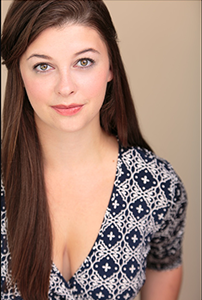
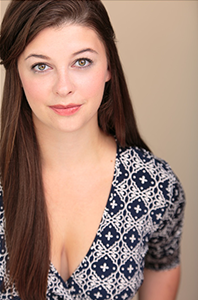
photo grid updates

diff --git a/index.html b/index.html
@@ -262,7 +262,7 @@
 
           <div class="col-lg-12">
             <ul id="portfolio-flters">
-              <li data-filter=".filter-app, .filter-card, .filter-logo, .filter-web" class="filter-active">All</li>
+              <li data-filter=".filter-production, .filter-headshot" class="filter-active">All</li>
               <li data-filter=".filter-headshot">Headshots</li>
               <li data-filter=".filter-production">Production Photos</li>
             </ul>
@@ -270,9 +270,9 @@
         </div>
 
         <div class="row" id="portfolio-wrapper">
-          <div class="col-lg-3 col-md-6 portfolio-item filter-headshot">
+          <div class="col-lg-3 col-md-6 portfolio-item filter-headshot photo-padding">
             <a href="">
-              <img src="img/Thumbnails/headshot4.png" alt="" style="margin-left: auto; margin-right: auto;">
+              <img src="img/Thumbnails/headshot1.png" alt="" class="portfolio-image">
               <div class="details">
                 <h4>App 1</h4>
                 <span>Alored dono par</span>
@@ -280,9 +280,9 @@
             </a>
           </div>
 
-          <div class="col-lg-3 col-md-6 portfolio-item filter-web">
+          <div class="col-lg-3 col-md-6 portfolio-item filter-headshot photo-padding">
             <a href="">
-              <img src="img/portfolio/web2.jpg" alt="">
+              <img src="img/Thumbnails/headshot2.png" alt="" class="portfolio-image">
               <div class="details">
                 <h4>Web 2</h4>
                 <span>Alored dono par</span>
@@ -290,106 +290,69 @@
             </a>
           </div>
 
-          <div class="col-lg-3 col-md-6 portfolio-item filter-app">
+          <div class="col-lg-3 col-md-6 portfolio-item filter-headshot photo-padding">
             <a href="">
-              <img src="img/portfolio/app3.jpg" alt="">
+              <img src="img/Thumbnails/headshot3.png" alt="" class="portfolio-image">
               <div class="details">
-                <h4>App 3</h4>
+                <h4>Web 2</h4>
                 <span>Alored dono par</span>
               </div>
             </a>
           </div>
 
-          <div class="col-lg-3 col-md-6 portfolio-item filter-card">
+          <div class="col-lg-3 col-md-6 portfolio-item filter-headshot photo-padding">
             <a href="">
-              <img src="img/portfolio/card1.jpg" alt="">
+              <img src="img/Thumbnails/headshot5.png" alt="" class="portfolio-image">
               <div class="details">
-                <h4>Card 1</h4>
+                <h4>Web 2</h4>
                 <span>Alored dono par</span>
               </div>
             </a>
           </div>
 
-          <div class="col-lg-3 col-md-6 portfolio-item filter-card">
+          
+          <div class="col-lg-3 col-md-6 portfolio-item filter-production photo-padding">
             <a href="">
-              <img src="img/portfolio/card2.jpg" alt="">
+              <img src="img/Thumbnails/production1.png" alt="" class="portfolio-image">
               <div class="details">
-                <h4>Card 2</h4>
+                <h4>Web 2</h4>
                 <span>Alored dono par</span>
               </div>
             </a>
           </div>
 
-          <div class="col-lg-3 col-md-6 portfolio-item filter-web">
+          
+          <div class="col-lg-3 col-md-6 portfolio-item filter-production photo-padding">
             <a href="">
-              <img src="img/portfolio/web3.jpg" alt="">
+              <img src="img/Thumbnails/production2.png" alt="" class="portfolio-image">
               <div class="details">
-                <h4>Web 3</h4>
+                <h4>Web 2</h4>
                 <span>Alored dono par</span>
               </div>
             </a>
           </div>
 
-          <div class="col-lg-3 col-md-6 portfolio-item filter-card">
+          
+          <div class="col-lg-3 col-md-6 portfolio-item filter-production photo-padding">
             <a href="">
-              <img src="img/portfolio/card3.jpg" alt="">
+              <img src="img/Thumbnails/production3.png" alt="" class="portfolio-image">
               <div class="details">
-                <h4>Card 3</h4>
+                <h4>Web 2</h4>
                 <span>Alored dono par</span>
               </div>
             </a>
           </div>
 
-          <div class="col-lg-3 col-md-6 portfolio-item filter-app">
+          
+          <div class="col-lg-3 col-md-6 portfolio-item filter-production photo-padding">
             <a href="">
-              <img src="img/portfolio/app2.jpg" alt="">
+              <img src="img/Thumbnails/production4.png" alt="" class="portfolio-image">
               <div class="details">
-                <h4>App 2</h4>
+                <h4>Web 2</h4>
                 <span>Alored dono par</span>
               </div>
             </a>
           </div>
-
-          <div class="col-lg-3 col-md-6 portfolio-item filter-logo">
-            <a href="">
-              <img src="img/portfolio/logo1.jpg" alt="">
-              <div class="details">
-                <h4>Logo 1</h4>
-                <span>Alored dono par</span>
-              </div>
-            </a>
-          </div>
-
-          <div class="col-lg-3 col-md-6 portfolio-item filter-logo">
-            <a href="">
-              <img src="img/portfolio/logo3.jpg" alt="">
-              <div class="details">
-                <h4>Logo 3</h4>
-                <span>Alored dono par</span>
-              </div>
-            </a>
-          </div>
-
-          <div class="col-lg-3 col-md-6 portfolio-item filter-web">
-            <a href="">
-              <img src="img/portfolio/web1.jpg" alt="">
-              <div class="details">
-                <h4>Web 1</h4>
-                <span>Alored dono par</span>
-              </div>
-            </a>
-          </div>
-
-          <div class="col-lg-3 col-md-6 portfolio-item filter-logo">
-            <a href="">
-              <img src="img/portfolio/logo2.jpg" alt="">
-              <div class="details">
-                <h4>Logo 2</h4>
-                <span>Alored dono par</span>
-              </div>
-            </a>
-          </div>
-
         </div>
 
       </div>

diff --git a/css/style.css b/css/style.css
@@ -759,7 +759,7 @@ body.mobile-nav-active #mobile-nav-toggle {
 
 #portfolio .portfolio-item {
   position: relative;
-  height: 200px;
+   height: 200px; /*This was originally 200 */
   overflow: hidden !important;
   margin-bottom: 15px;
   transition: all 350ms ease;
@@ -768,7 +768,7 @@ body.mobile-nav-active #mobile-nav-toggle {
 
 #portfolio .portfolio-item a {
   display: block;
-  margin-right: 15px;
+  /* margin-right: 15px; */
 }
 
 #portfolio .portfolio-item img {
@@ -1003,4 +1003,13 @@ body.mobile-nav-active #mobile-nav-toggle {
 #news-items {
   padding-top: 25px;
   padding-bottom: 25px;
+}
+
+.photo-padding {
+  padding-right: 0px !important;
+}
+
+.portfolio-image {
+  width: 100%;
+  height: 100%;
 }
